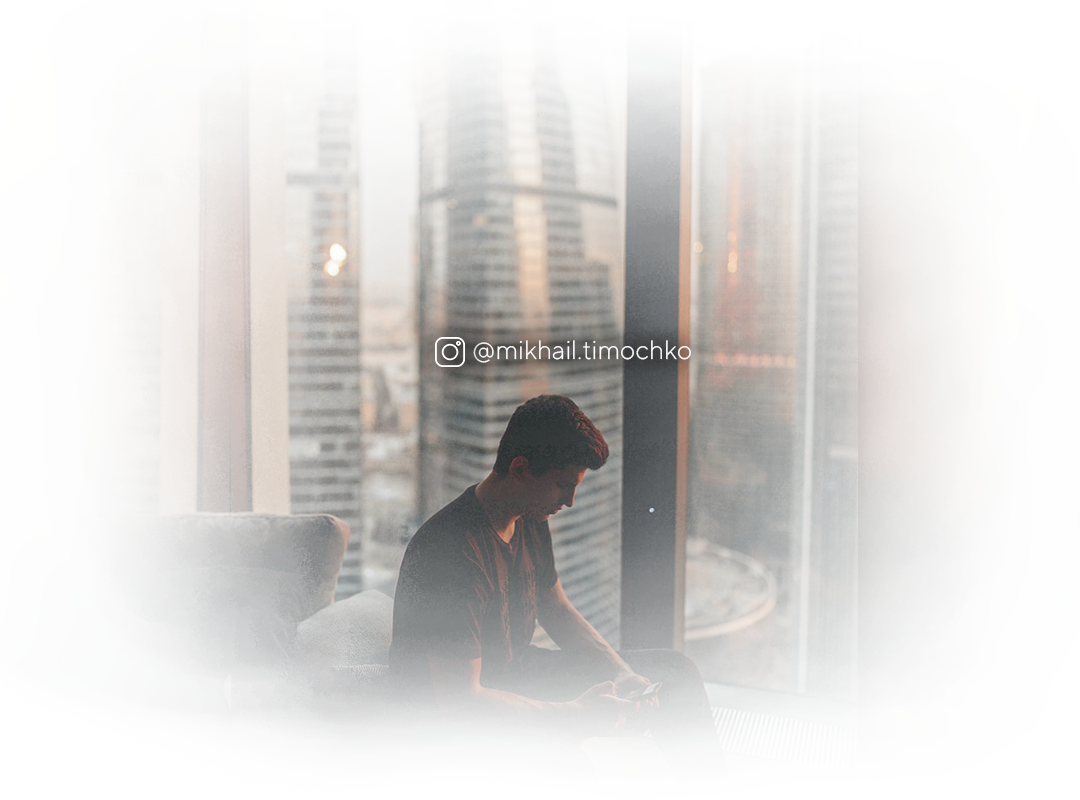
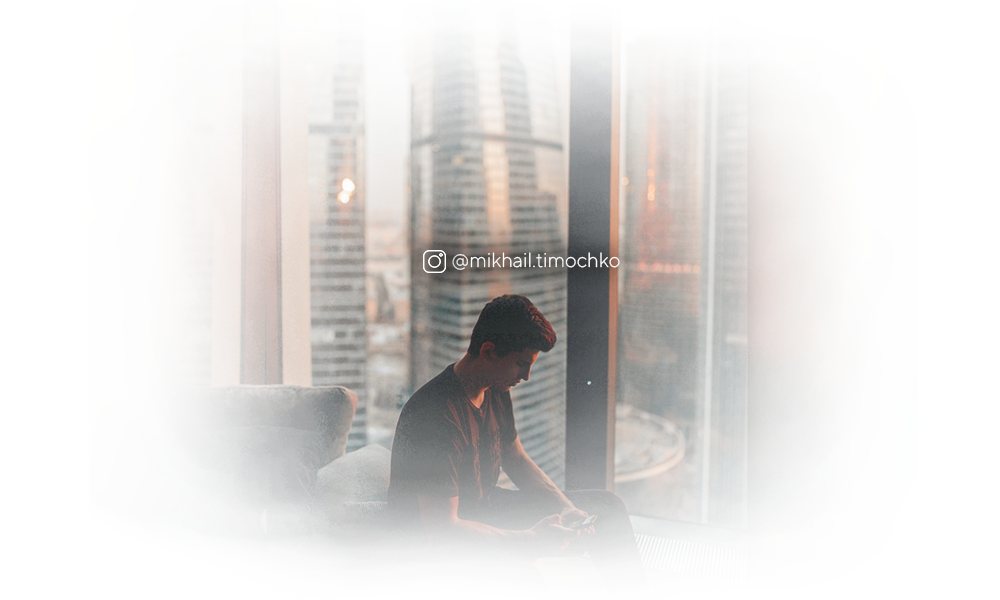
Мобильная верстка и scroll анимации

Changed region(s): [[0.155, 0.12, 0.837, 0.87], [0.434, 0.81, 0.465, 0.87]]

diff --git a/frontend/components/PortfolioProject.vue b/frontend/components/PortfolioProject.vue
@@ -1,6 +1,6 @@
 <template>
 	<div ref="container" class="container">
-		<div class="grid grid-cols-[1fr,2fr]">
+		<div class="grid grid-cols-[1fr,2fr] lg:hidden">
 			<div class="relative z-10">
 				<div class="absolute left-10 inset-y-0 -right-24 flex items-center">
 					<div ref="title">
@@ -11,7 +11,11 @@
 							<li><p>Проектирование</p></li>
 							<li><p>Дизайн</p></li>
 						</ul> -->
-						<a class="btn h-12 px-10 rounded-full mt-7 uppercase border border-white/60 text-xs tracking-rr hover:opacity-50 transition-opacity" href="https://getpods.ru" target="_blank">Посмотреть работу</a>
+						<a
+							class="btn h-12 px-10 rounded-full mt-7 uppercase border border-white/60 text-xs tracking-rr hover:opacity-50 transition-opacity"
+							href="https://getpods.ru"
+							target="_blank"
+						>Посмотреть работу</a>
 					</div>
 				</div>
 			</div>
@@ -20,6 +24,21 @@
 					<div class="absolute inset-0 rounded-3xl" :style="`background-image:url('${image}')`"></div>
 					<!-- <div class="absolute inset-0 rounded-lg" :style="`background-image:url(${require('~/static/image/sdsds.png')})`"></div> -->
 				</div>
+			</div>
+		</div>
+		<div class="hidden lg:block">
+			<div ref="mobileImage" class="w-full relative after:block after:pt-full">
+				<div class="absolute inset-0 rounded-3xl" :style="`background-image:url('${image}')`"></div>
+			</div>
+			<div ref="mobileTitle">
+				<div class="text-6xl font-semibold">GetPods.ru</div>
+				<hr class="w-32 mb-6 mt-5 bg-gray-400/50 h-px">
+				<p class="tracking-widest text-sm font-extralight leading-normal">Разработка интернет-магазина для официального реселлера Apple</p>
+				<a
+					class="btn h-12 px-6 rounded-full mt-7 uppercase border border-white/60 text-[.6rem] tracking-rr hover:opacity-50 transition-opacity"
+					href="https://getpods.ru"
+					target="_blank"
+				>Посмотреть работу</a>
 			</div>
 		</div>
 	</div>
@@ -44,20 +63,40 @@
 			const $image = this.$refs.image
 			const containerImageWitdhsRatio = $container.offsetWidth/$image.offsetWidth
 
-			const timeline = gsap.timeline()
-			timeline.from(this.$refs.image, {
-				scale: containerImageWitdhsRatio,
-				transformOrigin: "right center"
-			}, 0).addLabel('start');
-			timeline.from(this.$refs.title, { opacity: 0, x: -50 }, 0).addLabel('start');
+			ScrollTrigger.matchMedia({
+				// Desktop animation
+				'(min-width: 1024px)': () => {
+					const timeline = gsap.timeline()
+					timeline.from(this.$refs.image, { opacity: 0 }, 0).addLabel('start')
+					timeline.from(this.$refs.image, {
+						scale: containerImageWitdhsRatio,
+						transformOrigin: "right center"
+					}, 'start-=80%')
+					timeline.from(this.$refs.title, { opacity: 0, x: -50 }, 'start-=80%')
 
-			ScrollTrigger.create({
-				animation: timeline,
-				trigger: this.$el,
-				start: 'center center',
-				end: 'bottom top',
-				scrub: true,
-				pin: true
+					ScrollTrigger.create({
+						animation: timeline,
+						trigger: this.$el,
+						start: 'center center',
+						end: 'bottom top',
+						scrub: true,
+						pin: true
+					})
+				},
+				// Mobile animation
+				'(max-width: 1023px)': () => {
+					const timeline = gsap.timeline()
+					timeline.from(this.$refs.mobileImage, { opacity: 0 }, 0).addLabel('start');
+					timeline.from(this.$refs.mobileTitle, { opacity: 0, y: 50 }, 'start-=80%');
+
+					ScrollTrigger.create({
+						animation: timeline,
+						trigger: this.$el,
+						start: 'top center',
+						end: '70% center',
+						scrub: true
+					})
+				}
 			})
 		}
 	}

diff --git a/frontend/sections/Header.vue b/frontend/sections/Header.vue
@@ -47,7 +47,7 @@
 					<hr class="menu-separator block w-full h-px bg-white/20">
 					<div class="menu-content flex items-center justify-center h-full">
 						<nav class="flex space-x-14 h-full uppercase tracking-[.25rem] text-xs font-light">
-							<a class="flex items-center h-full text-white hover:opacity-60 transition-opacity" href="#">Об агентстве</a>
+							<nuxt-link class="flex items-center h-full text-white hover:opacity-60 transition-opacity" to="about">Об агентстве</nuxt-link>
 							<a class="flex items-center h-full text-white hover:opacity-60 transition-opacity" href="#">Порфолио</a>
 							<a class="flex items-center h-full text-white hover:opacity-60 transition-opacity" href="#">Вакансии</a>
 							<nuxt-link class="flex items-center h-full text-white hover:opacity-60 transition-opacity" to="contacts">Контакты</nuxt-link>
@@ -60,14 +60,17 @@
 		<!-- Mobile menu -->
 		<transition :duration="2000">
 			<div class="mobile-menu fixed inset-0 z-20 h-screen hidden lg:block" v-if="menu">
-				<div class="menu-backdrop absolute inset-0 bg-black will-change-transform"></div>
+				<div
+					class="menu-backdrop absolute inset-0 bg-black will-change-transform"
+					:style="`background-image: url(${require('~/static/image/header-menu-bg.jpeg')})`"
+				></div>
 				<div class="container h-full">
 					<ul class="h-full flex flex-col items-end justify-center relative z-10 space-y-9">
 						<li class="menu-item text-right pr-4">
 							<nuxt-link class="uppercase opacity-50 hover:opacity-100 transition-opacity will-change-opacity text-white font-normal text-lg tracking-rr" to="/">Главная</nuxt-link>
 						</li>
 						<li class="menu-item text-right pr-4">
-							<a class="uppercase opacity-50 hover:opacity-100 transition-opacity will-change-opacity text-white font-normal text-lg tracking-rr" href="#">Об агентстве</a>
+							<nuxt-link class="uppercase opacity-50 hover:opacity-100 transition-opacity will-change-opacity text-white font-normal text-lg tracking-rr" to="about">Об агентстве</nuxt-link>
 						</li>
 						<li class="menu-item text-right pr-4">
 							<a class="uppercase opacity-50 hover:opacity-100 transition-opacity will-change-opacity text-white font-normal text-lg tracking-rr" href="#">Порфолио</a>

diff --git a/frontend/pages/index.vue b/frontend/pages/index.vue
@@ -4,20 +4,20 @@
 
 		<div class="mt-20">
 			<div class="container">
-				<ul class="grid grid-cols-4 -mx-12">
-					<li class="px-12 space-y-3">
+				<ul class="grid grid-cols-4 -mx-12 lg:grid-cols-1 lg:gap-7 lg:text-center lg:max-w-xs lg:mx-auto">
+					<li class="px-12 space-y-3 lg:space-y-0 lg:px-6">
 						<h2 class="text-gray-400 font-normal tracking-wider">От идеи до желаемого результата</h2>
 						<p class="text-gray-500 text-xs font-normal tracking-widest leading-tight">Выполняем все этапы видеопроизводства</p>
 					</li>
-					<li class="px-12 space-y-3">
+					<li class="px-12 space-y-3 lg:space-y-0 lg:px-6">
 						<h2 class="text-gray-400 font-normal tracking-wider">От идеи до желаемого результата</h2>
 						<p class="text-gray-500 text-xs font-normal tracking-widest leading-tight">Выполняем все этапы видеопроизводства</p>
 					</li>
-					<li class="px-12 space-y-3">
+					<li class="px-12 space-y-3 lg:space-y-0 lg:px-6">
 						<h2 class="text-gray-400 font-normal tracking-wider">От идеи до желаемого результата</h2>
 						<p class="text-gray-500 text-xs font-normal tracking-widest leading-tight">Выполняем все этапы видеопроизводства</p>
 					</li>
-					<li class="px-12 space-y-3">
+					<li class="px-12 space-y-3 lg:space-y-0 lg:px-6">
 						<h2 class="text-gray-400 font-normal tracking-wider">От идеи до желаемого результата</h2>
 						<p class="text-gray-500 text-xs font-normal tracking-widest leading-tight">Выполняем все этапы видеопроизводства</p>
 					</li>
@@ -25,7 +25,7 @@
 			</div>
 		</div>
 
-		<PortfolioSection class="mt-48" />
+		<PortfolioSection class="mt-30" />
 	</div>
 </template>
 

diff --git a/frontend/sections/home/Welcome.vue b/frontend/sections/home/Welcome.vue
@@ -1,16 +1,16 @@
 <template>
 	<section class="min-h-screen flex items-center relative">
 		<!-- Background -->
-		<div class="welcome-video-background" data-vbg="https://youtu.be/yoVwN9I2wiA"></div>
+		<div class="welcome-video-background" data-vbg="https://youtu.be/yoVwN9I2wiA" data-vbg-load-background="false"></div>
 		<div class="absolute inset-0 bg-black/70"></div>
 		<div ref="welcome_text" class="absolute inset-0 z-10 flex items-center">
 			<div class="container">
-				<p class="text-white text-center mb-10 text-xl uppercase tracking-[.5rem] lg:text-base lg:tracking-[.4rem]">Ваш партнер в digital-среде</p>
-				<h1 class="text-white text-center font-light text-6xl uppercase tracking-widest lg:text-4xl md:leading-normal">Design. Strategy. Harmony.</h1>
+				<p class="text-white text-center mb-10 text-xl uppercase tracking-[.5rem] lg:text-base lg:tracking-[.4rem] font-thin sm:leading-normal">Ваш партнер <br class="hidden sm:block">в digital-среде</p>
+				<h1 class="text-white text-center text-6xl uppercase tracking-widest lg:text-4xl md:leading-normal font-thin">Design. Strategy. Harmony.</h1>
 				<div class="text-center">
 					<a class="details-action btn mt-10 text-white uppercase tracking-[.3rem] text-xs relative leading-none px-4 py-2" href="#">
 						<span>Подробнее</span>
-						<v-icon width="14px" class="absolute -right-2 block mb-[3px] pointer-events-none" name="chevron-right" />
+						<v-icon width="14px" class=" -right-2 block mb-[3px] pointer-events-none" name="chevron-right" />
 					</a>
 				</div>
 			</div>

diff --git a/frontend/pages/about.vue b/frontend/pages/about.vue
@@ -1,7 +1,24 @@
 <template>
-	<div>
-		<div class="page-background" ref="videoBackground" data-vbg="https://youtu.be/yoVwN9I2wiA"></div>
-	</div>
+	<section class="min-h-screen flex items-center relative">
+		<!-- Background -->
+		<div class="page-background" data-vbg="https://youtu.be/lu72YfaDU1o" data-vbg-load-background="false"></div>
+		<div class="absolute inset-0 bg-black/70 backdrop-contrast-150"></div>
+		<div ref="welcome_text" class="absolute inset-0 z-10 flex items-center">
+			<div class="container">
+				<p class="text-white text-center mb-10 text-xl uppercase tracking-[.5rem] lg:text-base lg:tracking-[.4rem]">Ваш партнер в digital-среде</p>
+				<h1 class="text-white text-center font-light text-6xl uppercase tracking-widest lg:text-4xl md:leading-normal">Design. Strategy. Harmony.</h1>
+				<div class="text-center">
+					<a class="details-action btn mt-10 text-white uppercase tracking-[.3rem] text-xs relative leading-none px-4 py-2" href="#">
+						<span>Подробнее</span>
+						<v-icon width="14px" class="absolute -right-2 block mb-[3px] pointer-events-none" name="chevron-right" />
+					</a>
+				</div>
+			</div>
+		</div>
+		<div class="absolute inset-x-0 bottom-0 flex justify-center z-10">
+			<div class="absolute inset-x-0 bottom-0 -top-20 bg-gradient-to-b from-transparent to-black"></div>
+		</div>
+	</section>
 </template>
 
 <script>

diff --git a/frontend/sections/Portfolio.vue b/frontend/sections/Portfolio.vue
@@ -1,5 +1,5 @@
 <template>
-	<section class="text-white space-y-80">
+	<section class="text-white space-y-40">
 		<portfolio-project :image="require('~/static/image/project-getpods.png')" />
 		<portfolio-project :image="require('~/static/image/project-hostrim.png')" />
 		<portfolio-project :image="require('~/static/image/project-timochko.png')" />

diff --git a/frontend/components/Preloader.vue b/frontend/components/Preloader.vue
@@ -36,12 +36,9 @@
 <style lang="scss" scoped>
 
 	.icon {
-		filter: drop-shadow(0 0 10px theme('colors.orange.300'));
-
 		&-enter-active {
 			transition: transform 1s ease, opacity 1.5s ease;
 		}
-
 		&-enter {
 			transform: scale(.9);
 			opacity: 0;

diff --git a/frontend/nuxt.config.js b/frontend/nuxt.config.js
@@ -68,4 +68,11 @@ export default {
 	server: {
 		host: '0.0.0.0'
 	},
+
+	watchers: {
+		webpack: {
+			aggregateTimeout: 300,
+			poll: 1000
+		}
+	}
 }

diff --git a/frontend/plugins/video-bg.js b/frontend/plugins/video-bg.js
@@ -1,7 +1,6 @@
 import 'youtube-background'
 
 const videoBg = (...args) => {
-	console.log()
 	return new VideoBackgrounds(...args)
 }
 
